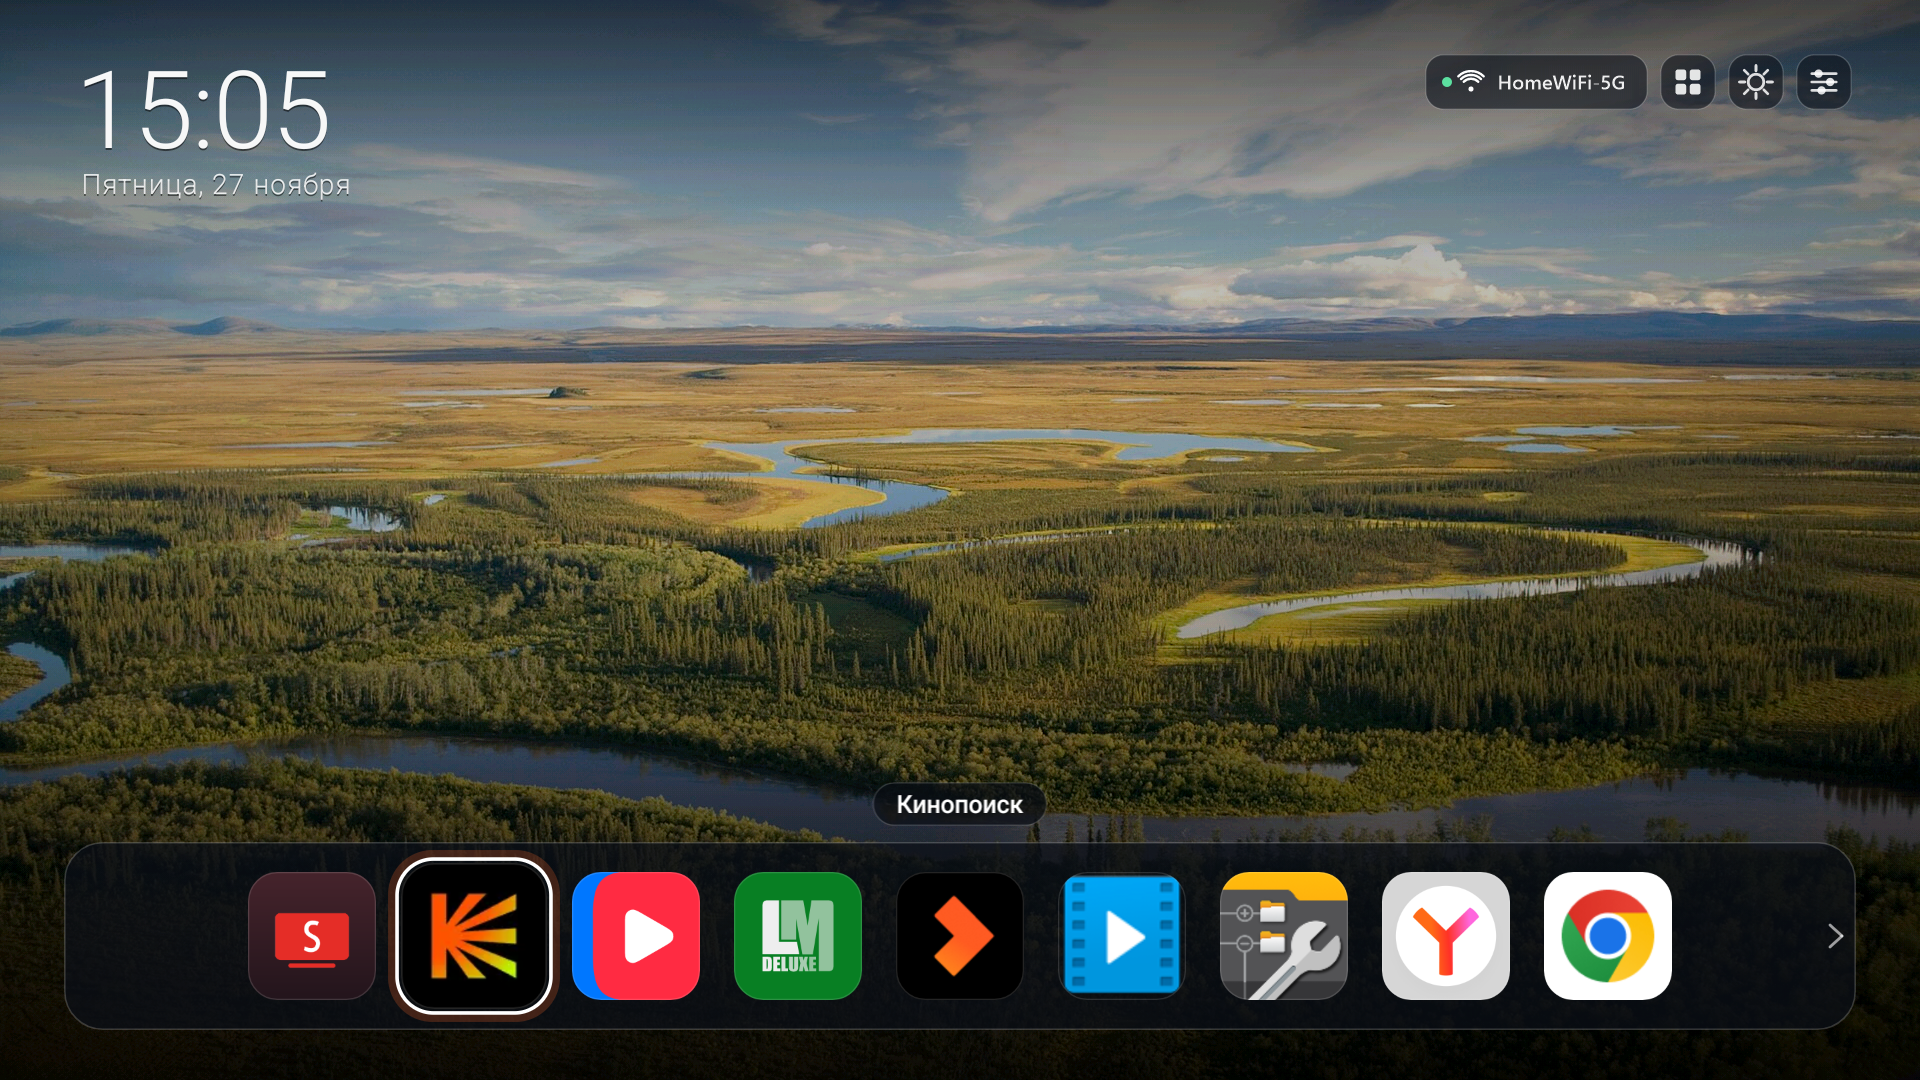
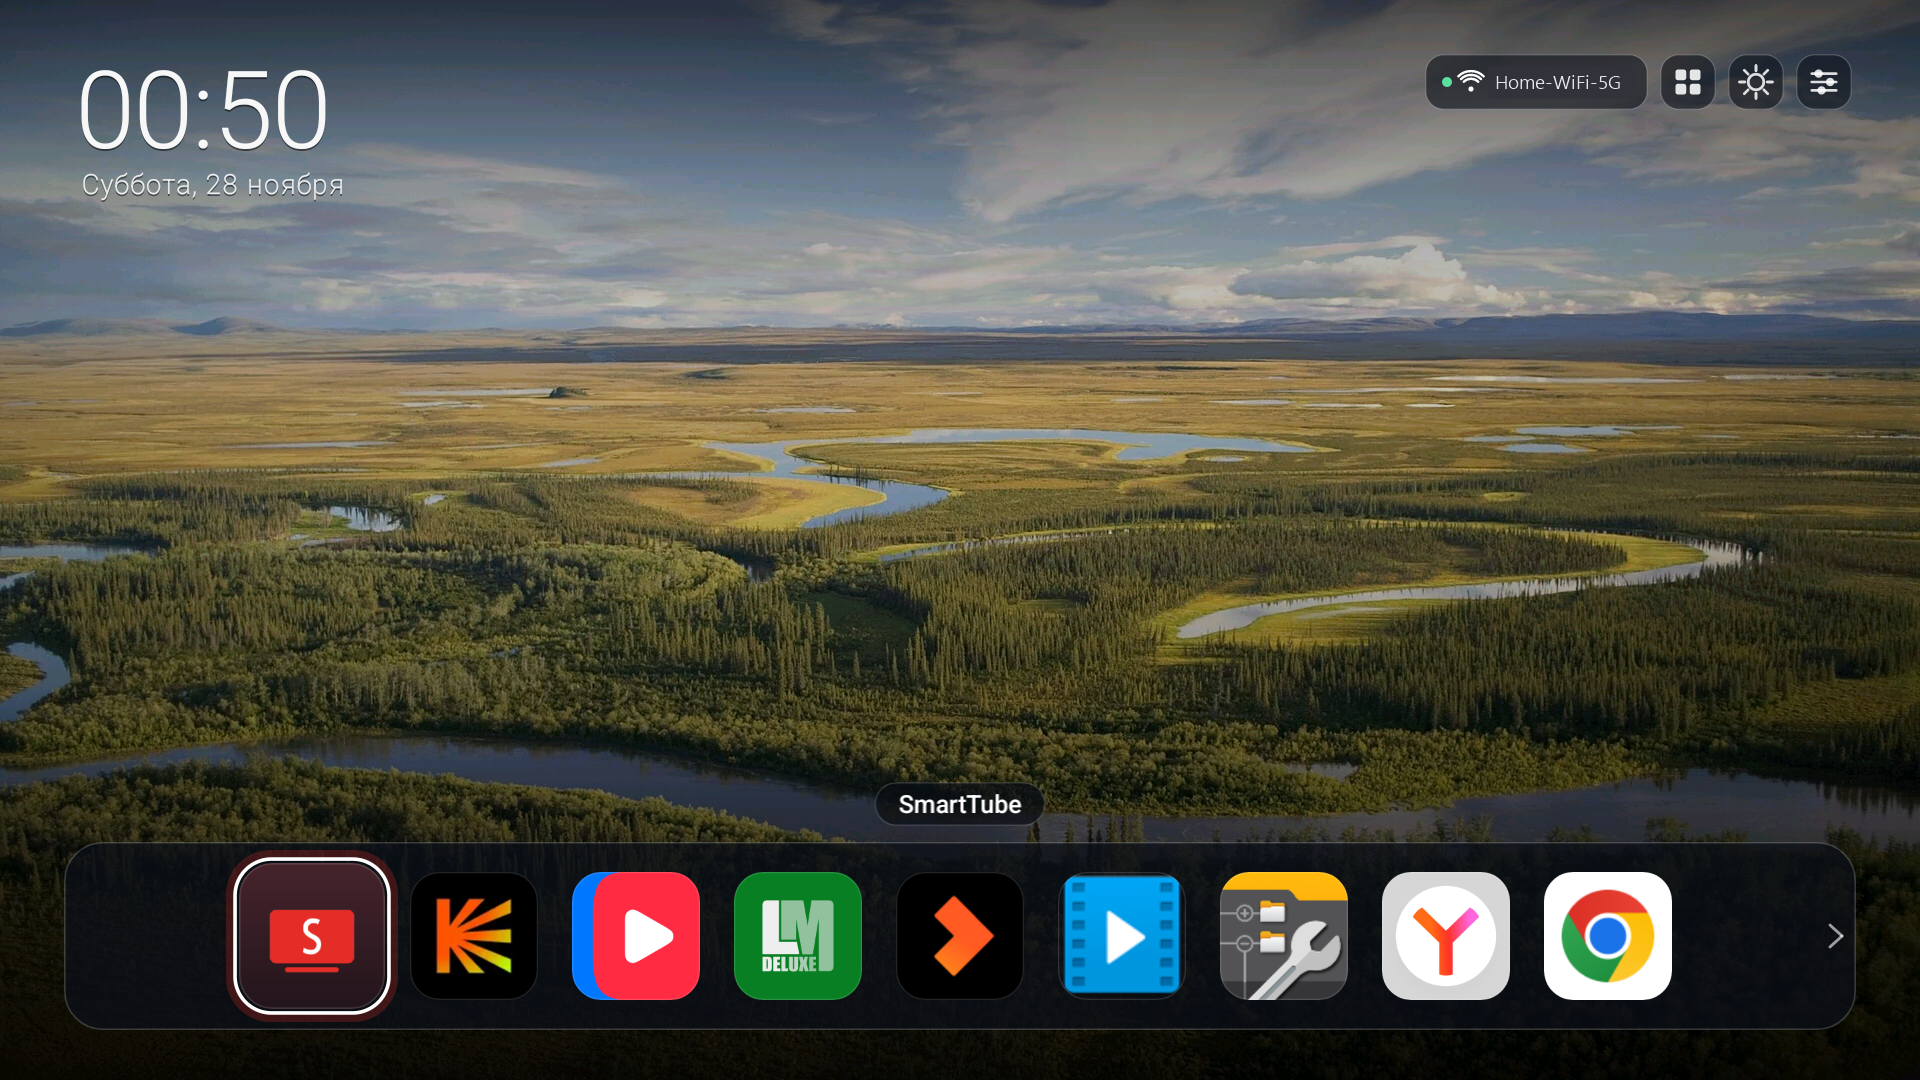
docs: update README showcase with 8 sanitized v3.0.2 screenshots

diff --git a/README.md b/README.md
@@ -16,17 +16,21 @@
 
 ## Скриншоты
 
-| Док в стиле Apple TV | Ночной кино-режим (тёплый янтарный тинт без шейдеров) |
+| Док в стиле Apple TV (WebP-обои v3.0.2) | Сетка всех приложений (6×3) |
 | :---: | :---: |
-| ![Док Ambient Home](docs/screenshots/dock.png) | ![Ночной кино-режим](docs/screenshots/night_cinema.png) |
+| ![Док Ambient Home 3.0.2](docs/screenshots/dock.png) | ![Сетка всех приложений](docs/screenshots/grid_all16.png) |
 
-| Аналоговые Ambient-часы (защита от выгорания по 4 углам) | Индикатор таймера сна |
+| Ambient-заставка (стиль «Тонкий», `Graphics: 0 KB`) | Ночной кино-режим + Аналоговые часы + Погода + Таймер сна |
 | :---: | :---: |
-| ![Аналоговая Ambient-заставка](docs/screenshots/ambient_analog.png) | ![Активный таймер сна](docs/screenshots/sleep_timer.png) |
+| ![Ambient-заставка Тонкий](docs/screenshots/ambient_thin.png) | ![Аналоговая Ambient-заставка с погодой и сном](docs/screenshots/analog_night_sleep.png) |
 
-| Настройки и живая диагностика железа |
-| :---: |
-| ![Настройки Ambient Home](docs/screenshots/settings.png) |
+| Прогноз погоды Open-Meteo (24 ч и 3 дня) | Пилюля «Сейчас играет» (`MediaSession`) |
+| :---: | :---: |
+| ![Прогноз погоды Open-Meteo](docs/screenshots/weather_forecast.png) | ![Пилюля Сейчас играет](docs/screenshots/now_playing.png) |
+
+| Настройки 3.0.2 и живая диагностика железа | Встроенный LAN Web-пульт (PWA, WCAG 2.2 AA) |
+| :---: | :---: |
+| ![Настройки Ambient Home 3.0.2](docs/screenshots/settings.png) | ![LAN Web-пульт Ambient Home 3.0.2](docs/screenshots/web_remote.png) |
 
 ---
 

diff --git a/README.en.md b/README.en.md
@@ -16,17 +16,21 @@
 
 ## Screenshots
 
-| Apple TV-style Dock | Night Cinema Mode (Zero-Shader Amber Tint) |
+| Apple TV-style Dock (v3.0.2 WebP Wallpapers) | Full-Screen All Apps Grid (6×3) |
 | :---: | :---: |
-| ![Ambient Home Dock](docs/screenshots/dock.png) | ![Night Cinema Mode](docs/screenshots/night_cinema.png) |
+| ![Ambient Home 3.0.2 Dock](docs/screenshots/dock.png) | ![All Apps Grid](docs/screenshots/grid_all16.png) |
 
-| Ambient Analog Clock (Burn-in Safe 4-Corner Hop) | Living-Room Sleep Timer Badge |
+| Ambient Screensaver (Thin Clock, `Graphics: 0 KB`) | Night Cinema + Analog Clock + Weather + Sleep Timer |
 | :---: | :---: |
-| ![Ambient Analog Screensaver](docs/screenshots/ambient_analog.png) | ![Sleep Timer Active](docs/screenshots/sleep_timer.png) |
+| ![Ambient Thin Screensaver](docs/screenshots/ambient_thin.png) | ![Ambient Analog Night Cinema with Weather and Sleep](docs/screenshots/analog_night_sleep.png) |
 
-| Settings & Live Hardware Diagnostics |
-| :---: |
-| ![Ambient Home Settings](docs/screenshots/settings.png) |
+| Open-Meteo Weather Forecast (24h & 3-Day) | Live Now Playing Pill (`MediaSession`) |
+| :---: | :---: |
+| ![Open-Meteo Weather Forecast](docs/screenshots/weather_forecast.png) | ![Live Now Playing Pill](docs/screenshots/now_playing.png) |
+
+| Settings v3.0.2 & Live Hardware Diagnostics | Embedded LAN Web Remote (PWA, WCAG 2.2 AA) |
+| :---: | :---: |
+| ![Ambient Home 3.0.2 Settings](docs/screenshots/settings.png) | ![LAN Web Remote PWA 3.0.2](docs/screenshots/web_remote.png) |
 
 ---
 
